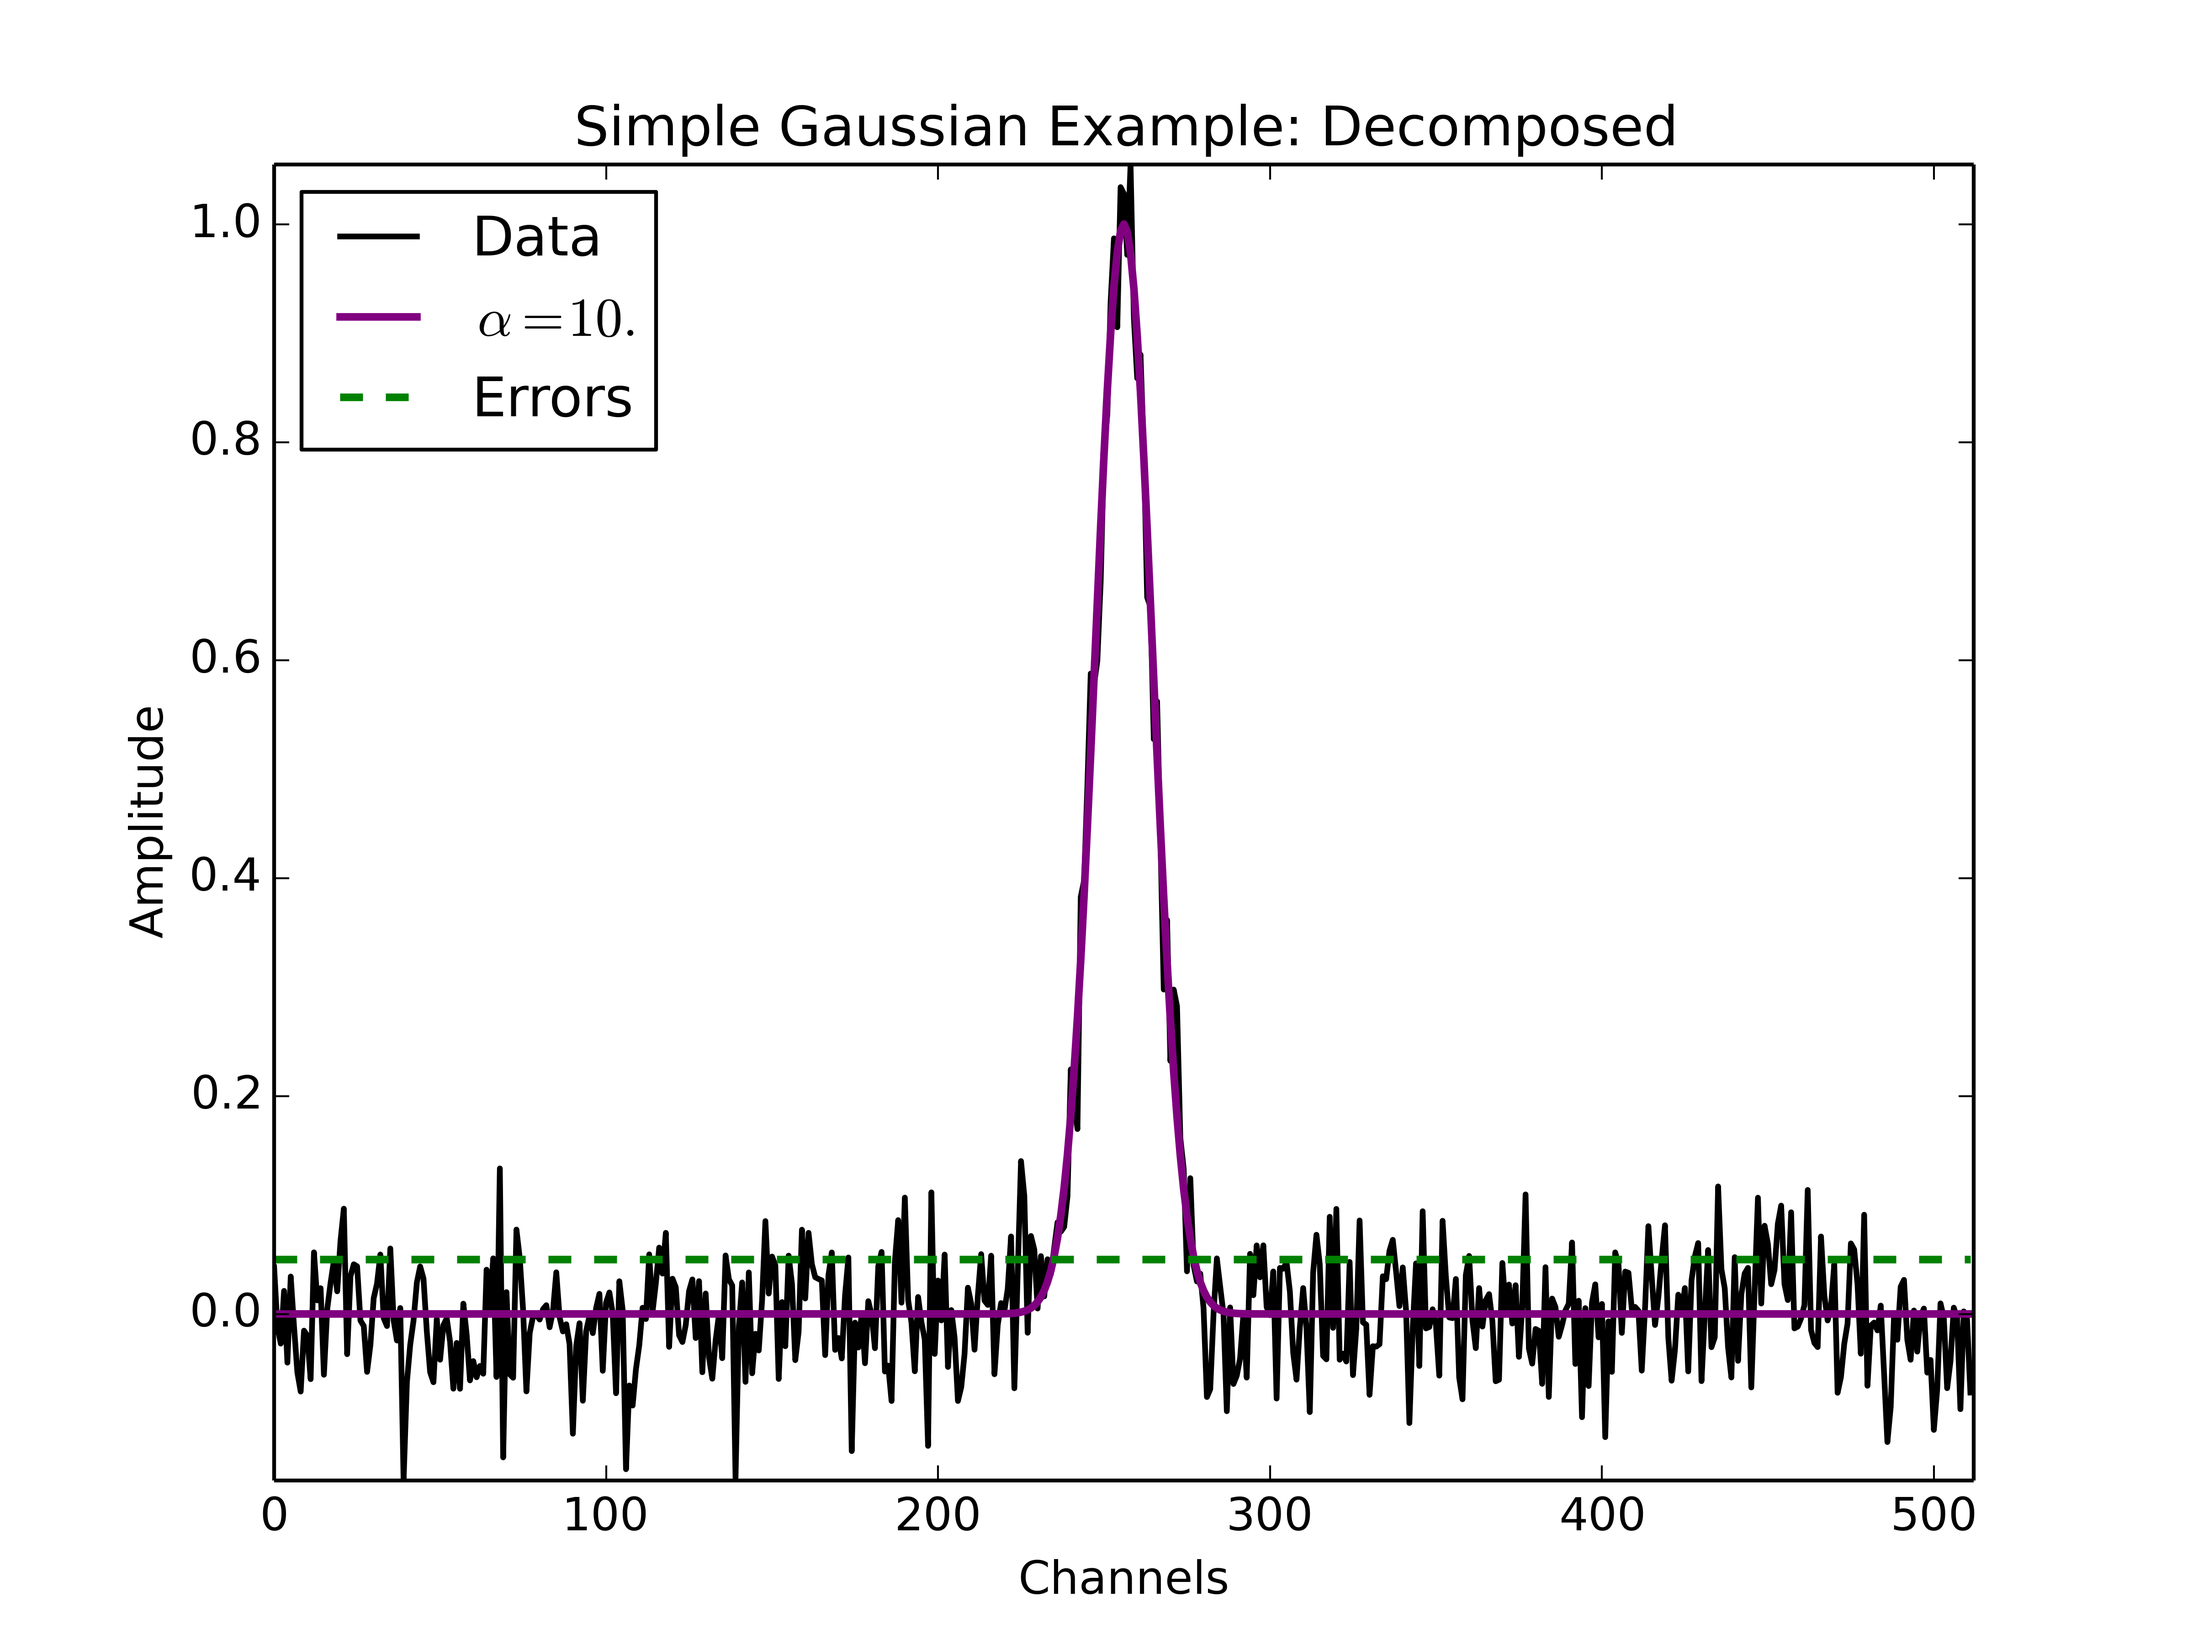
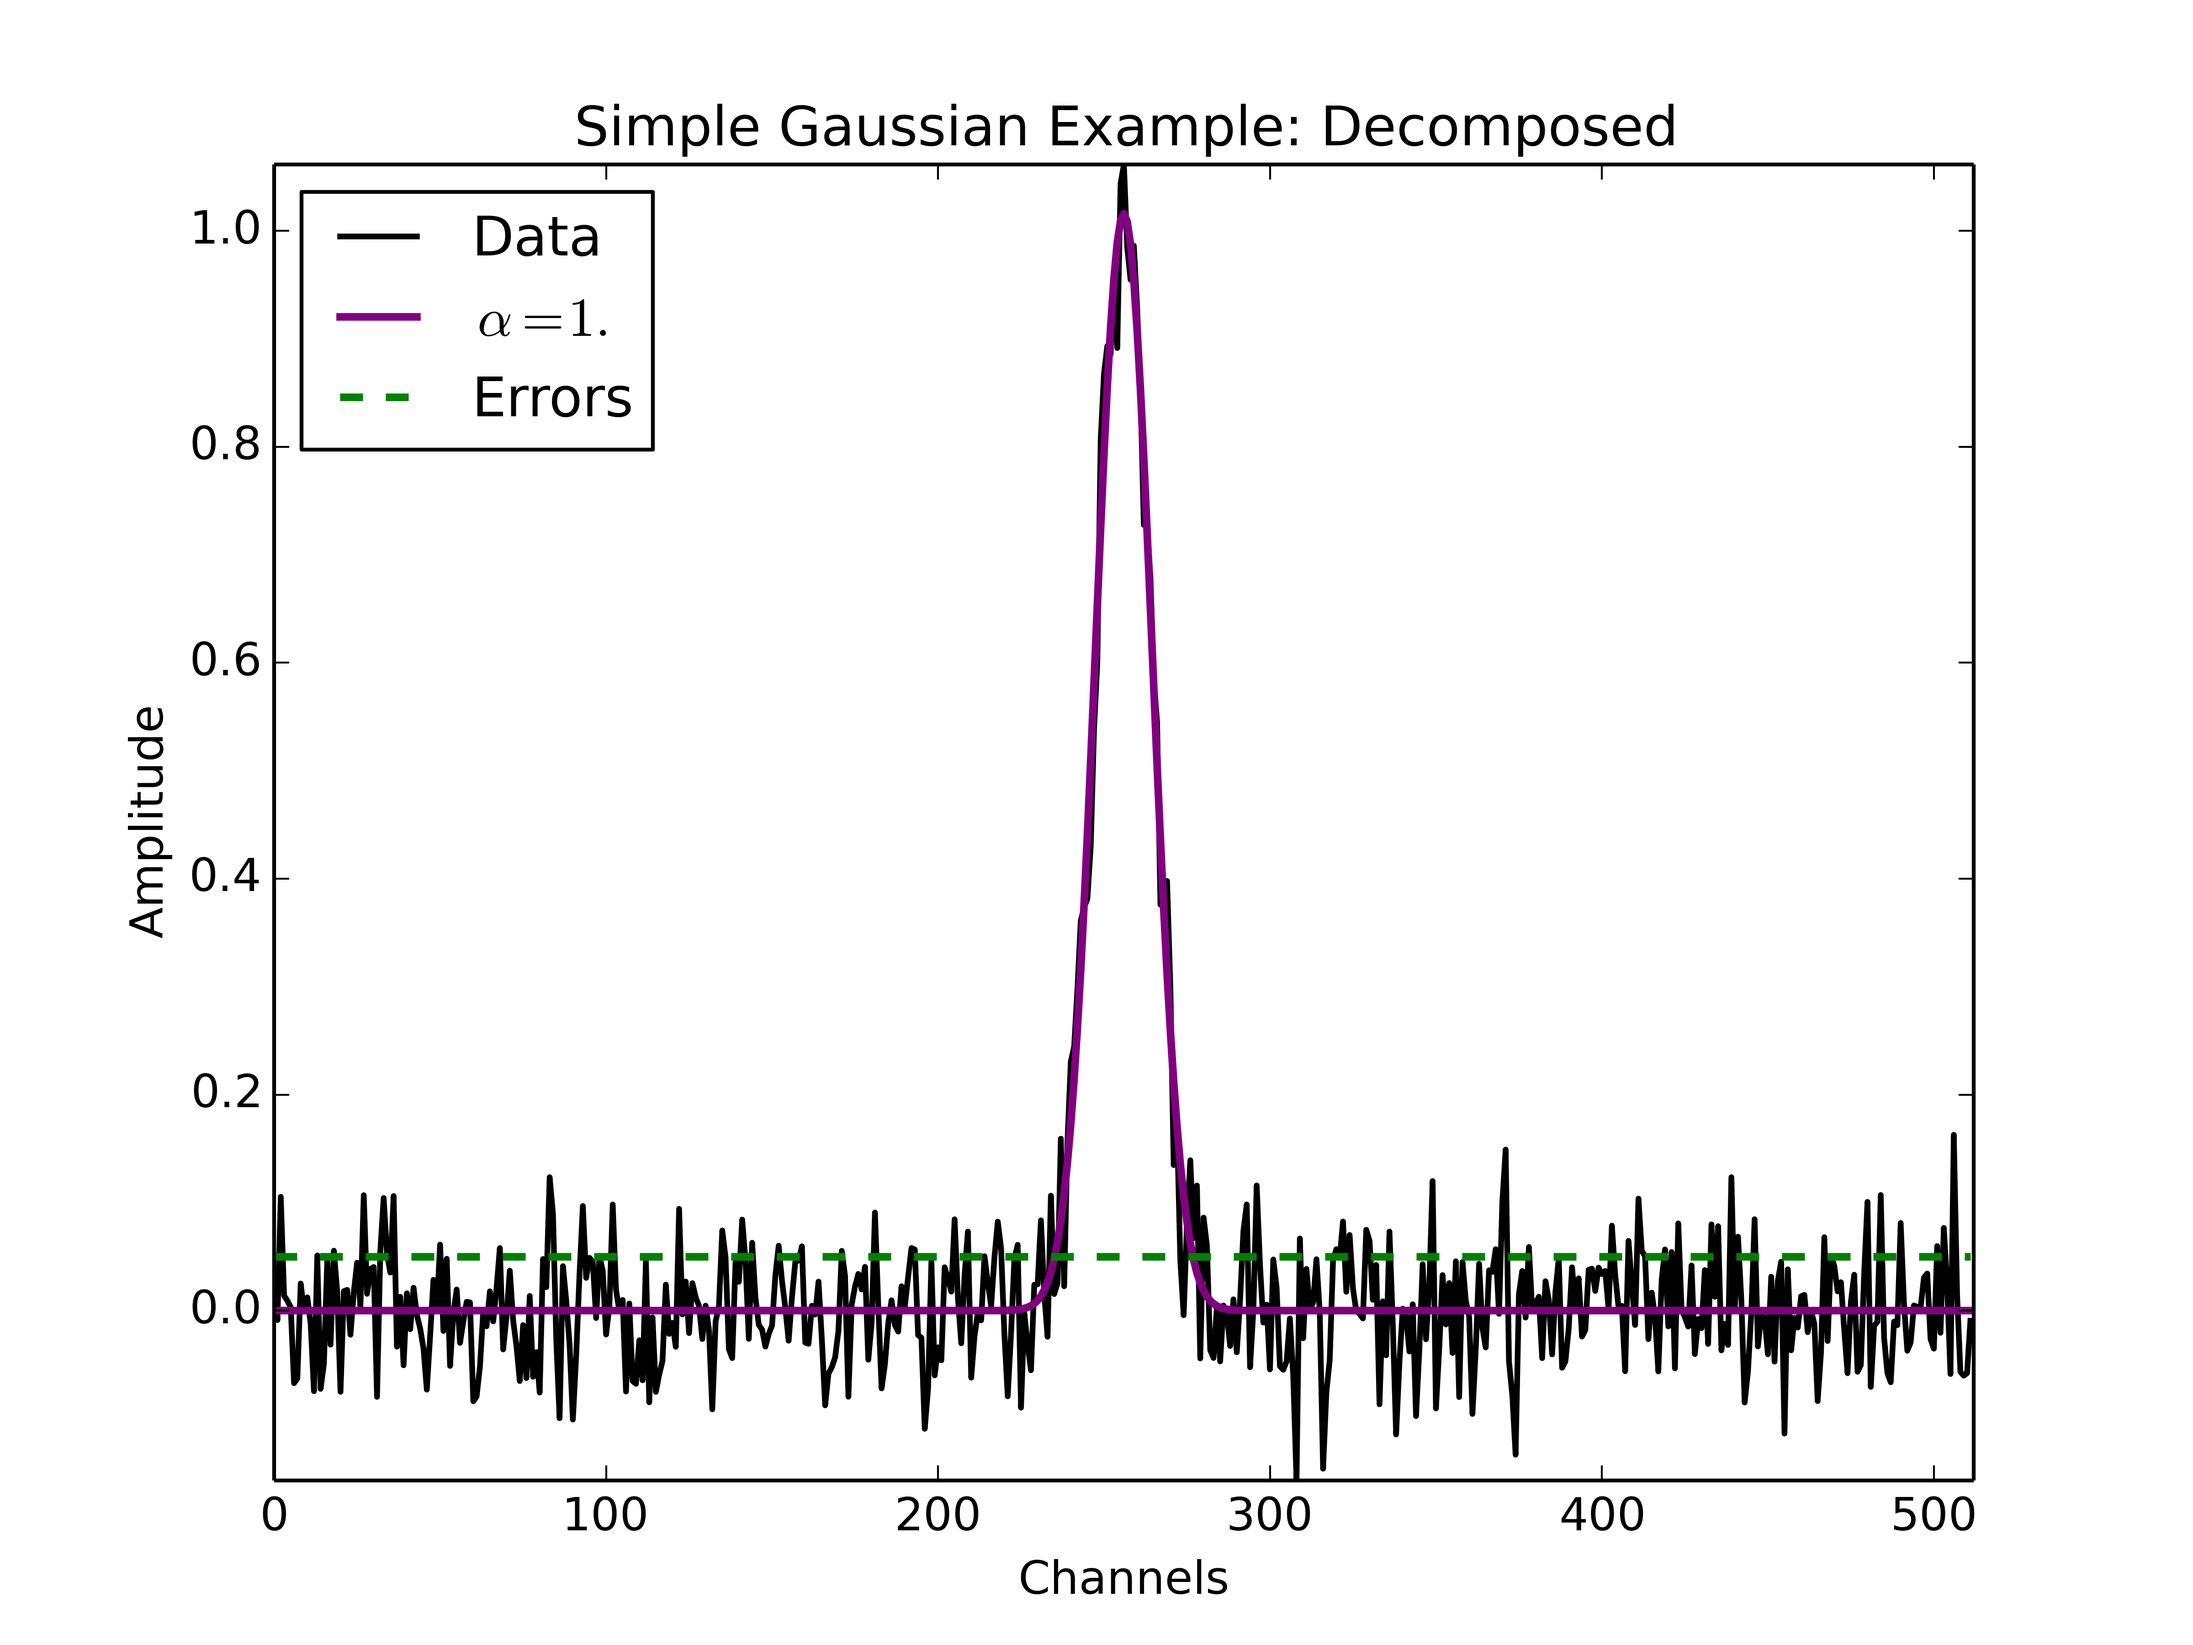
Changed derivative mode to default (i.e. c) and updated tutorial chapters and plots

diff --git a/tutorial.rst b/tutorial.rst
@@ -117,6 +117,9 @@ The following is an example code for running GaussPy. We will use the "one-phase
 
 4. ``FILENAME_DATA_DECOMP``: filename to store the decomposition results from GaussPy.
 
+
+See the Behind the Scenes chapter for a discussion of the mode that GaussPy uses to compute derivatives, which is set here to "conv".
+
 .. code-block:: python
 
     # Decompose simple dataset using AGD
@@ -124,7 +127,7 @@ The following is an example code for running GaussPy. We will use the "one-phase
     import gausspy.gp as gp
 
     # Specify necessary parameters
-    alpha1 = 10.
+    alpha1 = 1.
     snr_thresh = 5.
     FILENAME_DATA = 'simple_gaussian.pickle'
     FILENAME_DATA_DECOMP = 'simple_gaussian_decomposed.pickle'
@@ -136,7 +139,6 @@ The following is an example code for running GaussPy. We will use the "one-phase
     g.set('phase', 'one')
     g.set('SNR_thresh', [snr_thresh, snr_thresh])
     g.set('alpha1', alpha1)
-    g.set('mode','conv')
 
     # Run GaussPy
     data_decomp = g.batch_decomposition(FILENAME_DATA)
@@ -362,7 +364,7 @@ begin with. As before, the important parameters to specify are:
     import gausspy.gp as gp
 
     # Specify necessary parameters
-    alpha1 = 20.
+    alpha1 = 0.5
     snr_thresh = 5.
     FILENAME_DATA = 'multiple_gaussians.pickle'
     FILENAME_DATA_DECOMP = 'multiple_gaussians_decomposed.pickle'
@@ -374,7 +376,6 @@ begin with. As before, the important parameters to specify are:
     g.set('phase', 'one')
     g.set('SNR_thresh', [snr_thresh, snr_thresh])
     g.set('alpha1', alpha1)
-    g.set('mode','conv')
 
     # Run GaussPy
     data_decomp = g.batch_decomposition(FILENAME_DATA)
@@ -557,7 +558,7 @@ Next, we will apply GaussPy to the real or synthetic training dataset and compar
     # Set necessary parameters
     FILENAME = 'training_data.pickle'
     snr_thresh = 5.
-    alpha_initial = 20.
+    alpha_initial = 1.
 
     g = gp.GaussianDecomposer()
 
@@ -567,43 +568,16 @@ Next, we will apply GaussPy to the real or synthetic training dataset and compar
     # Set GaussPy parameters
     g.set('phase', 'one')
     g.set('SNR_thresh', [snr_thresh, snr_thresh])
-    g.set('mode','conv')
 
     # Train AGD starting with initial guess for alpha
     g.train(alpha1_initialnitial = alpha_initial, plot=False,
-        verbose = False, mode = 'conv',
-        learning_rate = 1.0, eps = 1.0, MAD = 0.1)
+        verbose = False, learning_rate = 1.0, eps = 1.0, MAD = 0.1)
 
-GausspPy will decompose the training dataset with the initial choice of
-:math:`\alpha_{initial}` and compare the results with the known underlying
-decomposition to compute the accuracy of the decomposition. The training process
-will then iteratively change the value of :math:`\alpha_{initial}` and recompute
-the decomposition until the process converges. Convergence is achieved when the
-change between iterations of the reduced :math:`\chi^2` is less than 0.03 for at
-least 10 iterations. The accuracy of the decomposition associated with the
-converged value of :math:`\alpha` is a description of how well GaussPy can
-recover the true underlying decomposition.
+GausspPy will decompose the training dataset with the initial choice of :math:`\alpha_{initial}` and compare the results with the known underlying decomposition to compute the accuracy of the decomposition. The training process will then iteratively change the value of :math:`\alpha_{initial}` and recompute the decomposition until the process converges.The accuracy of the decomposition associated with the converged value of :math:`\alpha` is a description of how well GaussPy can recover the true underlying decomposition.
 
-The above training dataset parameters were selected with the
-:ref:`multiple-gaussians-tutorial` in mind. As we saw in that example, the
-choice of :math:`\alpha` has a significant effect on the GaussPy decomposition.
-In the training above, when we choose an initial value of
-:math:`\alpha_{initial}=20` the training process converges to
-:math:`\alpha=9.01` with an accuracy of 70.6%, and required 371 iterations.
+The above training dataset parameters were selected with the :ref:`multiple-gaussians-tutorial` in mind. As we saw in that example, the choice of :math:`\alpha` has a significant effect on the GaussPy decomposition. In the training above, when we choose an initial value of:math:`\alpha_{initial}=1.0` the training process converges to :math:`\alpha=1.58` with an accuracy of 68.4%, and required 33 iterations.
 
-To ensure that the training converges on the optimal value of :math:`\alpha` and
-not a local maximum, it is useful to re-run the training process for several
-initial choices of :math:`\alpha`. When we run the above example with an initial
-choice of :math:`\alpha_{initial}=4`, AGD converges to a value of
-:math:`\alpha=8.67` with an accuracy of 70.7% and required 185 iterations. For
-:math:`\alpha_{initial}=10`, the training converges to :math:`\alpha=9.01` with
-an accuracy of 70.6% following 132 iterations. These results indicate that the
-training will converge on a range of :math:`\alpha` values that decompose the
-target spectrum with similar accuracy. Repeating the training with a value of
-:math:`\alpha_{initial}` between 8.67 and 9.01 will converge to
-:math:`\alpha=\alpha_{initial}` within ~30 iterations. (results will vary very
-slightly for each test of the above code, given the random selection of
-component parameters in the training dataset).
+To ensure that the training converges on the optimal value of :math:`\alpha` and not a local maximum, it is useful to re-run the training process for several initial choices of :math:`\alpha`. When we run the above example with an initial choice of :math:`\alpha_{initial}=3`, AGD converges to a value of :math:`\alpha=1.58` with an accuracy of 68.4% and required 33 iterations. However, this is a relatively simple example and therefore the converged value of alpha is not very sensitive to the initial choice of :math:`\alpha_1`. In the Prepping a Datacube chapter, we will discuss the effects of added complexity.
 
 
 Running GaussPy using Trained :math:`\alpha`
@@ -612,8 +586,8 @@ Running GaussPy using Trained :math:`\alpha`
 With a trained value of :math:`\alpha` in hand, we can proceed to decompose our
 target dataset with AGD. In this example, we will return to the example from the
 :ref:`multiple-gaussians-tutorial` chapter. Following training, we select a
-value of :math:`\alpha=9.01`, which decomposed our training dataset with an
-accuracy of ~70%. As in the :ref:`simple-example-tutorial` and
+value of :math:`\alpha=1.58`, which decomposed our training dataset with an
+accuracy of 68.4%. As in the :ref:`simple-example-tutorial` and
 :ref:`multiple-gaussians-tutorial`, the important parameters to specify are:
 
 1. ``alpha1``: our choice for the value of :math:`\alpha`
@@ -634,7 +608,7 @@ accuracy of ~70%. As in the :ref:`simple-example-tutorial` and
     import gausspy.gp as gp
 
     # Specify necessary parameters
-    alpha1 = 9.01
+    alpha1 = 1.58
     snr_thresh = 5.
 
     FILENAME_DATA = 'multiple_gaussians.pickle'
@@ -647,7 +621,6 @@ accuracy of ~70%. As in the :ref:`simple-example-tutorial` and
     g.set('phase', 'one')
     g.set('SNR_thresh', [snr_thresh, snr_thresh])
     g.set('alpha1', alpha1)
-    g.set('mode','conv')
 
     # Run GaussPy
     data_decomp = g.batch_decomposition(FILENAME_DATA)
@@ -657,7 +630,7 @@ accuracy of ~70%. As in the :ref:`simple-example-tutorial` and
 
 Fig. :num:`#multiple-gaussians-trained-decomposed` displays the result of
 fitting the "Multiple Gaussians" spectrum with a trained value of
-:math:`\alpha=9.01`.
+:math:`\alpha=1.58`.
 
 .. _multiple-gaussians-trained-decomposed:
 
@@ -720,8 +693,8 @@ we would like to solve for two different values of :math:`\alpha`.
     # Set necessary parameters
     FILENAME_TRAIN = 'training_data.pickle'
     snr_thresh = 5.
-    alpha1_initial = 12.
-    alpha2_initial = 4.
+    alpha1_initial = 0.5
+    alpha2_initial = 2.
 
     g = gp.GaussianDecomposer()
 
@@ -731,14 +704,12 @@ we would like to solve for two different values of :math:`\alpha`.
     # Set GaussPy parameters
     g.set('phase', 'two')
     g.set('SNR_thresh', [snr_thresh, snr_thresh])
-    g.set('mode','conv')
 
-    # Train AGD starting with initial guess for alpha g.train(alpha1_initial =
-    alpha1_initial, alpha2_initial = alpha2_initial, plot=False, verbose =
-    False, mode = 'conv', learning_rate = 1.0, eps = 1.0, MAD = 0.1)
+    # Train AGD starting with initial guess for alpha
+    g.train(alpha1_initial = alpha1_initial, alpha2_initial = alpha2_initial, plot=False, verbose = False, learning_rate = 1.0, eps = 1.0, MAD = 0.1)
 
-Following training, GaussPy converges on values of :math:`\alpha_1 = 10.58` and
-:math:`\alpha_2 = 9.21` in 286 iterations, with an accuracy of 75.3%. Clearly,
+Following training, GaussPy converges on values of :math:`\alpha_1 = 0.39` and
+:math:`\alpha_2 = 2.32` in 39 iterations, with an accuracy of 76.0%. Clearly,
 the two-phase decomposition improves the accuracy of the decomposition, of
 course at the expense of introducing a second free parameter in the
 decomposition. In general, for datasets containing more than one type of
